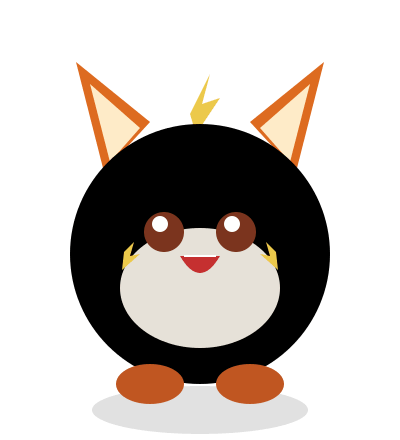
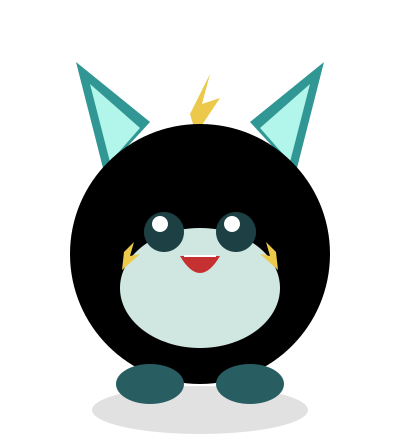
feat: swap Jeo to orange cute cool girl and Zyzy to electric teal roket, keeping their texts intact

diff --git a/src/components/CharacterVectors.tsx b/src/components/CharacterVectors.tsx
@@ -475,29 +475,33 @@ export const CharacterVector = ({
         <svg viewBox="0 0 160 180" className={className} fill="none" xmlns="http://www.w3.org/2000/svg">
           <defs>
             <radialGradient id="jeoBody" cx="50%" cy="40%" r="60%">
-              <stop offset="0%" stopColor="#B2F5EA" />
-              <stop offset="100%" stopColor="#319795" />
+              <stop offset="0%" stopColor="#FEEBC8" />
+              <stop offset="100%" stopColor="#DD6B20" />
             </radialGradient>
           </defs>
           <ellipse cx="80" cy="165" rx="45" ry="10" fill="rgba(0,0,0,0.12)" />
 
-          {/* Cute Pastel Orange Headphones with Chic Metal Band */}
-          <path d="M34 85 C34 36 126 36 126 85" stroke="#DD6B20" strokeWidth="6" strokeLinecap="round" fill="none" />
-          <rect x="26" y="74" width="16" height="28" rx="7" fill="#ED8936" stroke="#C05621" strokeWidth="1.5" />
-          <rect x="118" y="74" width="16" height="28" rx="7" fill="#ED8936" stroke="#C05621" strokeWidth="1.5" />
+          {/* Chic Mint-Teal Retro Headphones with Metal Band */}
+          <path d="M34 85 C34 36 126 36 126 85" stroke="#319795" strokeWidth="6" strokeLinecap="round" fill="none" />
+          <rect x="26" y="74" width="16" height="28" rx="7" fill="#38B2AC" stroke="#234E52" strokeWidth="1.5" />
+          <rect x="118" y="74" width="16" height="28" rx="7" fill="#38B2AC" stroke="#234E52" strokeWidth="1.5" />
 
           {/* Chic Ear Cushion Accents */}
-          <circle cx="34" cy="88" r="4" fill="#FBD38D" />
-          <circle cx="126" cy="88" r="4" fill="#FBD38D" />
+          <circle cx="34" cy="88" r="4" fill="#B2F5EA" />
+          <circle cx="126" cy="88" r="4" fill="#B2F5EA" />
+
+          {/* Cute pointy ears (from the beloved orange character) */}
+          <polygon points="42,70 30,25 60,50" fill="#DD6B20" />
+          <polygon points="44,66 36,34 56,52" fill="#FEEBC8" />
+          <polygon points="118,70 130,25 100,50" fill="#DD6B20" />
+          <polygon points="116,66 124,34 104,52" fill="#FEEBC8" />
 
           {/* Body */}
-          <circle cx="80" cy="104" r="52" fill="url(#jeoBody)" />
-          <ellipse cx="80" cy="118" rx="33" ry="25" fill="#E6FFFA" opacity="0.9" />
+          <circle cx="80" cy="104" r="53" fill="url(#jeoBody)" />
+          <ellipse cx="80" cy="118" rx="33" ry="25" fill="#FFFAF0" opacity="0.9" />
 
-          {/* Cute Cool Girl Bangs / Hair Tuft */}
-          <path d="M54 74 Q68 64 80 74 Q92 64 106 74 Q80 68 54 74 Z" fill="#234E52" />
-          <path d="M50 78 Q46 90 52 98 Q54 86 54 78 Z" fill="#234E52" />
-          <path d="M110 78 Q114 90 108 98 Q106 86 106 78 Z" fill="#234E52" />
+          {/* Cute Cool Girl Hair Tuft / Bangs */}
+          <path d="M60 72 Q80 62 100 72 Q80 66 60 72 Z" fill="#7B341E" />
 
           {/* Chic Retro Shades lowered on bridge */}
           <g transform="translate(50, 86)">
@@ -509,29 +513,29 @@ export const CharacterVector = ({
           </g>
 
           {/* Cute Eyes peeking over shades */}
-          <circle cx="62" cy="84" r="3.5" fill="#1D4044" />
+          <circle cx="62" cy="84" r="3.5" fill="#7B341E" />
           <circle cx="61" cy="82.5" r="1.4" fill="#FFFFFF" />
-          <circle cx="98" cy="84" r="3.5" fill="#1D4044" />
+          <circle cx="98" cy="84" r="3.5" fill="#7B341E" />
           <circle cx="97" cy="82.5" r="1.4" fill="#FFFFFF" />
 
           {/* Cute Rosy Peach Blush */}
-          <ellipse cx="50" cy="104" rx="7" ry="4" fill="#FF85A1" opacity="0.6" />
-          <ellipse cx="110" cy="104" rx="7" ry="4" fill="#FF85A1" opacity="0.6" />
+          <ellipse cx="50" cy="104" rx="7" ry="4" fill="#FF85A1" opacity="0.75" />
+          <ellipse cx="110" cy="104" rx="7" ry="4" fill="#FF85A1" opacity="0.75" />
 
           {/* Cute Cool Smirk */}
-          <path d="M78 108 Q84 114 91 107" stroke="#1D4044" strokeWidth="2.4" strokeLinecap="round" />
+          <path d="M78 108 Q84 114 91 107" stroke="#7B341E" strokeWidth="2.4" strokeLinecap="round" />
 
-          {/* Pink Heart Pin on Headphone */}
+          {/* Pink Heart Pin on Headphone (female indicator) */}
           <g transform="translate(122, 68)">
             <path
               d="M5 2 C5 0.8 4 0 3 0 C2.2 0 1.6 0.6 1.3 1.3 C1 0.6 0.4 0 -0.4 0 C-1.4 0 -2.4 0.8 -2.4 2 C-2.4 3.5 -0.5 5.5 1.3 7 C3.1 5.5 5 3.5 5 2 Z"
-              fill="#FF5E7E"
+              fill="#FF3366"
             />
           </g>
 
-          {/* Feet with retro kicks */}
-          <ellipse cx="62" cy="154" rx="14" ry="9" fill="#285E61" />
-          <ellipse cx="98" cy="154" rx="14" ry="9" fill="#285E61" />
+          {/* Feet */}
+          <ellipse cx="62" cy="154" rx="14" ry="9" fill="#C05621" />
+          <ellipse cx="98" cy="154" rx="14" ry="9" fill="#C05621" />
         </svg>
       );
 
@@ -540,30 +544,30 @@ export const CharacterVector = ({
         <svg viewBox="0 0 160 180" className={className} fill="none" xmlns="http://www.w3.org/2000/svg">
           <defs>
             <radialGradient id="zyzyBody" cx="50%" cy="40%" r="60%">
-              <stop offset="0%" stopColor="#FEEBC8" />
-              <stop offset="100%" stopColor="#DD6B20" />
+              <stop offset="0%" stopColor="#E6FFFA" />
+              <stop offset="100%" stopColor="#319795" />
             </radialGradient>
           </defs>
           <ellipse cx="80" cy="165" rx="44" ry="10" fill="rgba(0,0,0,0.12)" />
           {/* Dynamic pointy energetic ears */}
-          <polygon points="42,70 30,25 60,50" fill="#DD6B20" />
-          <polygon points="44,66 36,34 56,52" fill="#FEEBC8" />
-          <polygon points="118,70 130,25 100,50" fill="#DD6B20" />
-          <polygon points="116,66 124,34 104,52" fill="#FEEBC8" />
+          <polygon points="42,70 30,25 60,50" fill="#319795" />
+          <polygon points="44,66 36,34 56,52" fill="#B2F5EA" />
+          <polygon points="118,70 130,25 100,50" fill="#319795" />
+          <polygon points="116,66 124,34 104,52" fill="#B2F5EA" />
 
-          {/* Lightning head tuft */}
+          {/* Golden Lightning head tuft */}
           <polygon points="76,46 84,30 81,42 88,40 78,54" fill="#ECC94B" />
 
           {/* Body */}
           <circle cx="80" cy="103" r="53" fill="url(#zyzyBody)" />
-          <ellipse cx="80" cy="116" rx="32" ry="24" fill="#FFFAF0" opacity="0.9" />
+          <ellipse cx="80" cy="116" rx="32" ry="24" fill="#E6FFFA" opacity="0.9" />
 
           {/* Energetic Wide Eyes */}
-          <circle cx="66" cy="94" r="8" fill="#7B341E" />
+          <circle cx="66" cy="94" r="8" fill="#1D4044" />
           <circle cx="64" cy="91" r="3.2" fill="#FFFFFF" />
           <circle cx="69" cy="97" r="1.6" fill="#FFFFFF" />
 
-          <circle cx="94" cy="94" r="8" fill="#7B341E" />
+          <circle cx="94" cy="94" r="8" fill="#1D4044" />
           <circle cx="92" cy="91" r="3.2" fill="#FFFFFF" />
           <circle cx="97" cy="97" r="1.6" fill="#FFFFFF" />
 
@@ -576,8 +580,8 @@ export const CharacterVector = ({
           <path d="M74 104 L86 104" stroke="#FFFFFF" strokeWidth="2.5" strokeLinecap="round" />
 
           {/* Feet */}
-          <ellipse cx="60" cy="154" rx="14" ry="8" fill="#C05621" />
-          <ellipse cx="100" cy="154" rx="14" ry="8" fill="#C05621" />
+          <ellipse cx="60" cy="154" rx="14" ry="8" fill="#285E61" />
+          <ellipse cx="100" cy="154" rx="14" ry="8" fill="#285E61" />
         </svg>
       );
 

diff --git a/src/data/characters.ts b/src/data/characters.ts
@@ -632,9 +632,9 @@ export const CHARACTERS_DATA: CharacterPersonality[] = [
       km: 'ឡូយផង គួរឱ្យស្រឡាញ់ផង! ជីវិតនេះស្រស់បំព្រងណាស់ មកស្តាប់ចង្វាក់ភ្លេងជាមួយខ្ញុំណា~',
     },
     favorite: {
-      id: 'Headphone jingga pastel, kacamata hitam retro, mixtape lo-fi estetik, dan es teh buah persik',
-      en: 'Pastel orange headphones, chic retro shades, aesthetic lo-fi mixtapes, and peach iced tea',
-      km: 'កាសពណ៌ទឹកក្រូច pastel វ៉ែនតាខ្មៅ អាល់ប៊ុម lo-fi និងតែផ្លែប៉េសត្រជាក់',
+      id: 'Headphone retro mint-teal, kacamata hitam retro, mixtape lo-fi estetik, dan es teh buah persik',
+      en: 'Chic retro mint-teal headphones, retro shades, aesthetic lo-fi mixtapes, and peach iced tea',
+      km: 'កាស retro mint-teal វ៉ែនតាខ្មៅ អាល់ប៊ុម lo-fi និងតែផ្លែប៉េសត្រជាក់',
     },
     funFact: {
       id: 'Bisa meremix ketukan langkah kaki siapa saja menjadi melodi lo-fi yang menenangkan hanya dalam 5 detik.',
@@ -664,13 +664,13 @@ export const CHARACTERS_DATA: CharacterPersonality[] = [
       ],
     },
     themeColor: {
-      primary: '#319795',
-      secondary: '#81E6D9',
-      bg: '#E6FFFA',
-      text: '#1D4044',
-      accent: '#285E61',
-      border: '#B2F5EA',
-      glow: 'rgba(49, 151, 149, 0.45)',
+      primary: '#DD6B20',
+      secondary: '#FBD38D',
+      bg: '#FFFAF0',
+      text: '#7B341E',
+      accent: '#C05621',
+      border: '#FEEBC8',
+      glow: 'rgba(221, 107, 32, 0.45)',
     },
     imagePath: '/assets/characters/jeo.png',
     idleAnimation: 'breathe',
@@ -750,13 +750,13 @@ export const CHARACTERS_DATA: CharacterPersonality[] = [
       ],
     },
     themeColor: {
-      primary: '#DD6B20',
-      secondary: '#FBD38D',
-      bg: '#FFFAF0',
-      text: '#7B341E',
-      accent: '#C05621',
-      border: '#FEEBC8',
-      glow: 'rgba(221, 107, 32, 0.5)',
+      primary: '#319795',
+      secondary: '#81E6D9',
+      bg: '#E6FFFA',
+      text: '#1D4044',
+      accent: '#285E61',
+      border: '#B2F5EA',
+      glow: 'rgba(49, 151, 149, 0.45)',
     },
     imagePath: '/assets/characters/zyzy.png',
     idleAnimation: 'dash',
